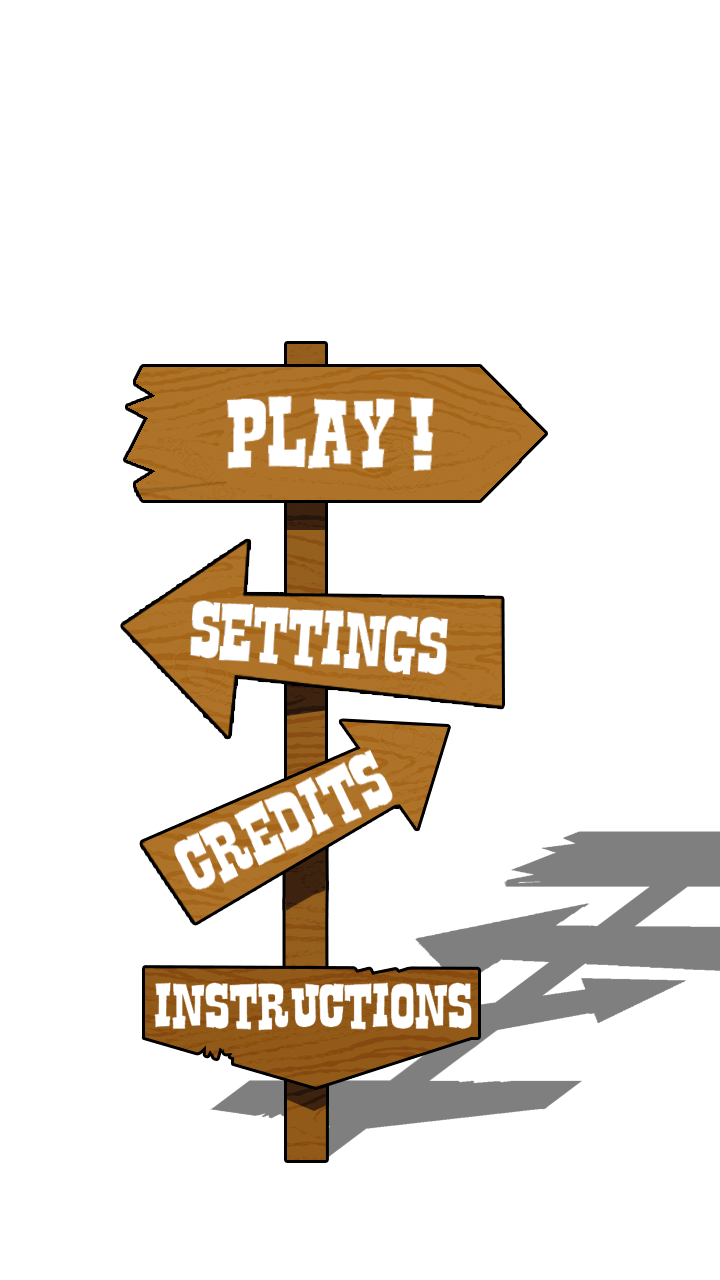
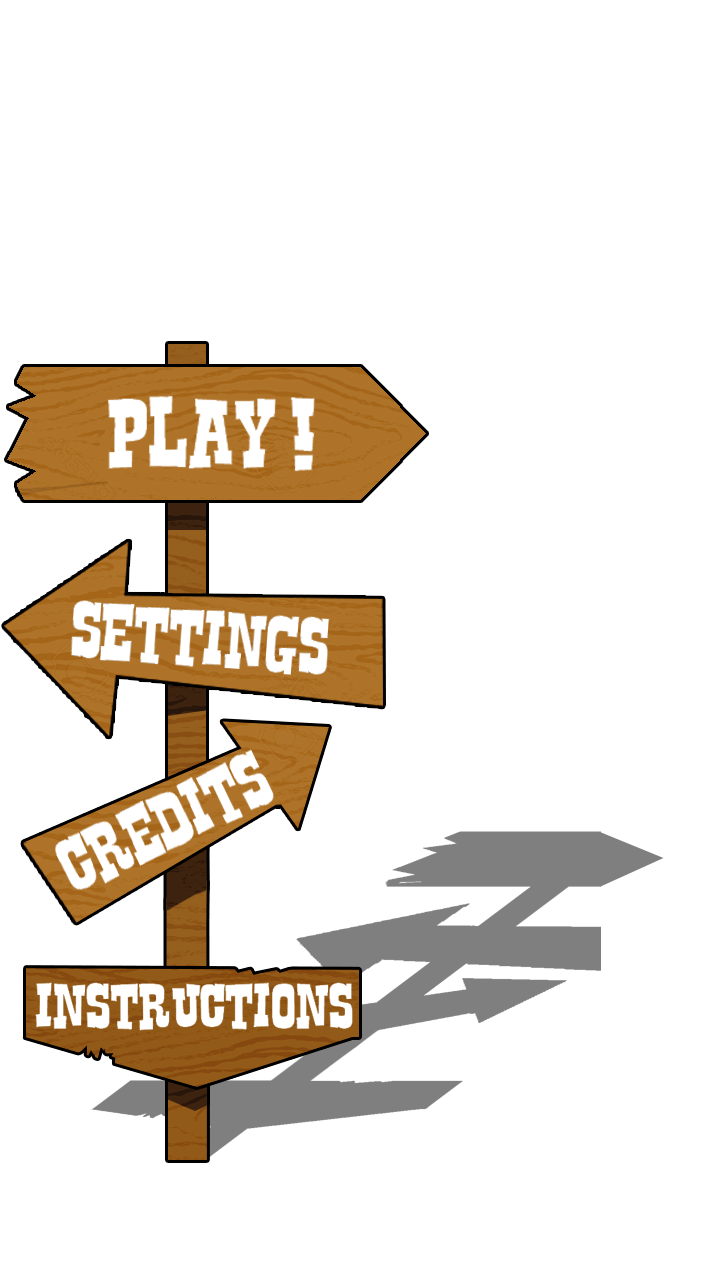
fixed main manu shadow, AI now follows the game rules

Changed region(s): [[0.0, 0.25, 1.0, 0.9062]]

diff --git a/Assets/Scripts/Connection/Offline.cs b/Assets/Scripts/Connection/Offline.cs
@@ -6,8 +6,22 @@ public class Offline : Connection {
 
     private GameManager gm;
     private short type = (short) MyMsgType.Null;
+    private int nBullets;
+    private int consecutiveDefs;
     
+    private bool IsValidChoice(int choice) {
+        if (choice == 1 && nBullets <= 0)
+            return false;
+        if (choice == 2 && consecutiveDefs >= (gm.MaxDefenses - 1))
+            return false;
+        if (choice == 3 && nBullets >= (gm.MaxBullets - 1))
+            return false;
+        return true;
+    }
+
     void Start(){
+        nBullets = 0;
+        consecutiveDefs = 0;
         this.gm = GameObject.FindGameObjectWithTag("GameManager").
             GetComponent<GameManager>();
     }
@@ -25,8 +39,12 @@ public class Offline : Connection {
         if(this.type == (short) MyMsgType.Action){
 
             type = (short) MyMsgType.Null;
-            
-            int choice = Random.Range(0, 4);
+
+            int choice;
+            do {
+                choice = Random.Range(0, 4);
+            } while (!IsValidChoice(choice));
+
             switch(choice) {
             case 0:
                 retVal = "NOOP";

diff --git a/Assets/Scripts/Controllers/GameManager.cs b/Assets/Scripts/Controllers/GameManager.cs
@@ -289,7 +289,7 @@ public class GameManager : MonoBehaviour {
 		
 		Destroy(timerObject);
 		connection.CloseConnection();
-		Destroy(connection);
+		Destroy(connection.gameObject);
 		
 		timerObject = null;
 		connection = null;

diff --git a/Assets/Scripts/Connection/Wifi.cs b/Assets/Scripts/Connection/Wifi.cs
@@ -198,7 +198,6 @@ public class Wifi : Connection {
 
 	public override bool CloseConnection(){
 		NetworkManager.Shutdown();
-		GameObject.Destroy(this);
 	    return true;
 	}
 
